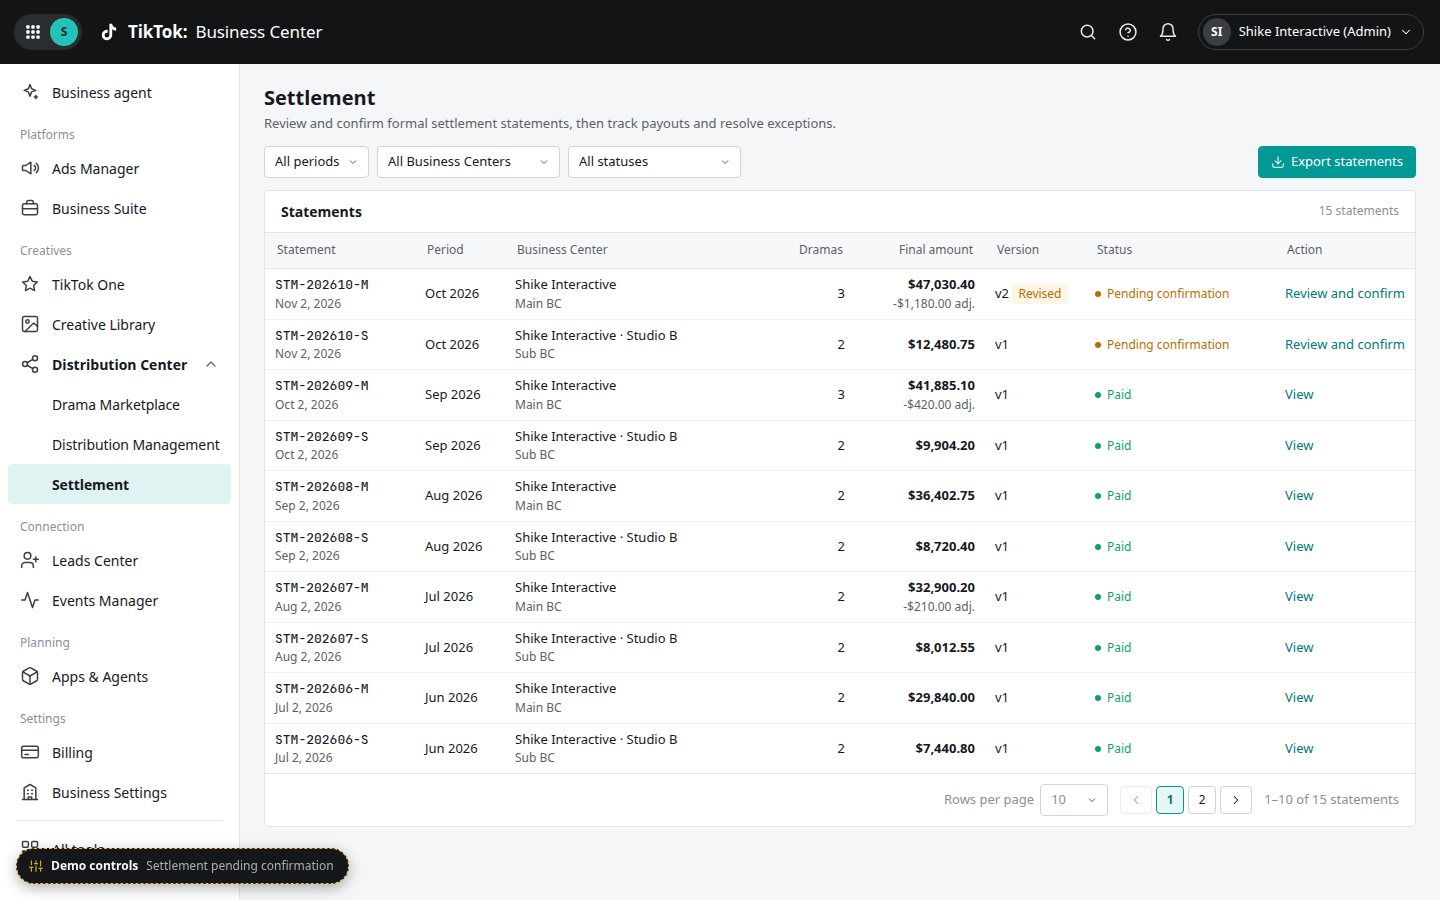
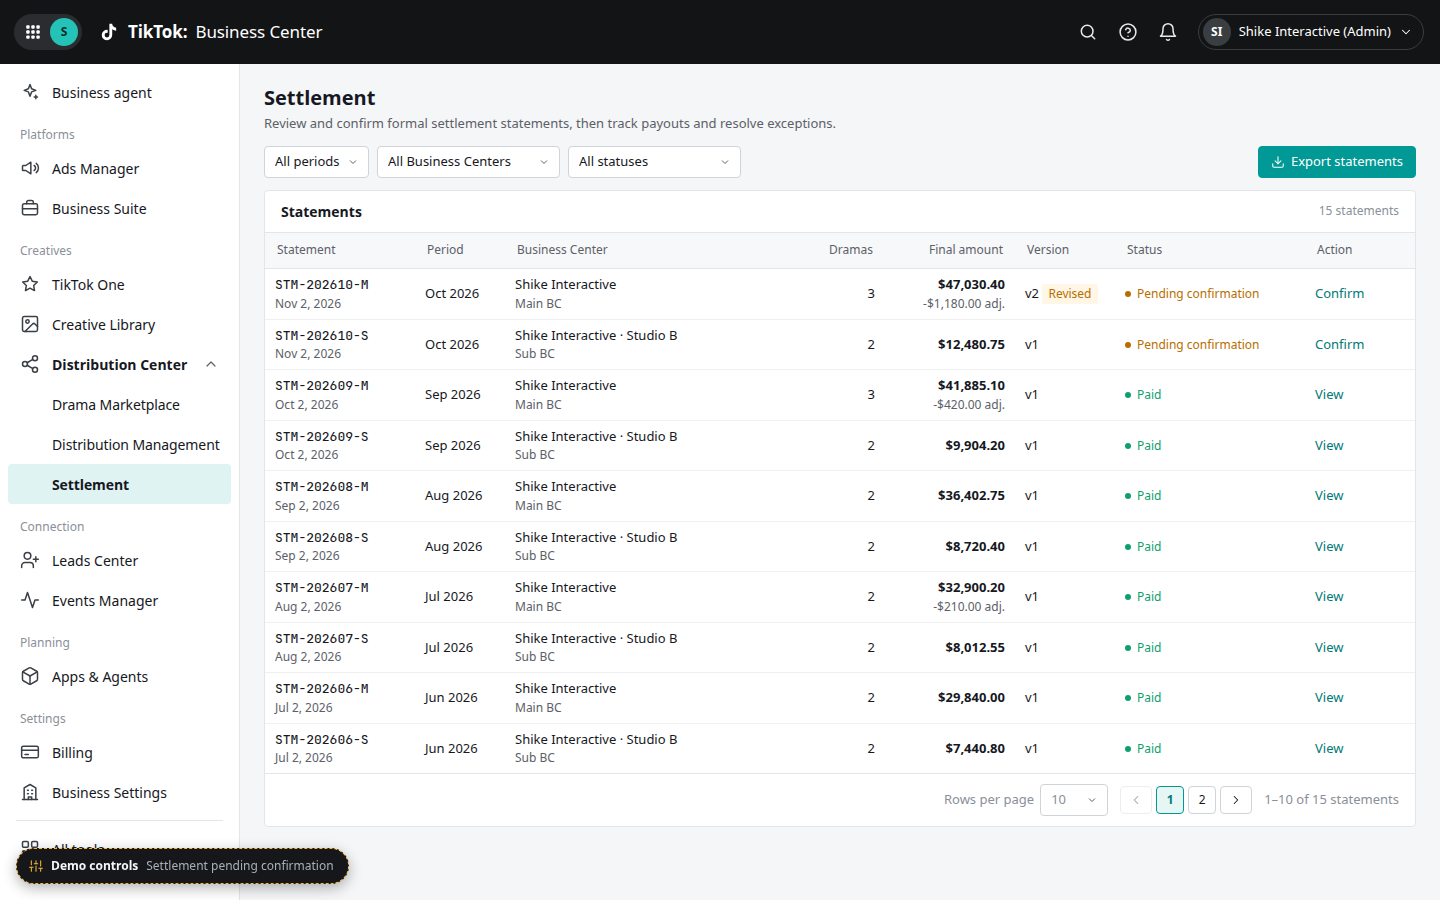
Sync prototype: Confirm action left-aligned
Rename the pending statement action to Confirm and left-align it with View in the Action column.

diff --git a/index.html b/index.html
@@ -108,7 +108,8 @@ button,input,select{font:inherit;color:inherit}
 .tbl tbody tr:hover td{background:#FAFBFC}
 .tbl tr:last-child td{border-bottom:0}
 .tbl .num{text-align:right;font-variant-numeric:tabular-nums}
-.tbl td.act{overflow:visible;white-space:nowrap}
+.tbl th.act,.tbl td.act{text-align:left;overflow:visible;white-space:nowrap}
+.tbl td.act .btn-link{display:inline-flex;justify-content:flex-start}
 .tbl tr:has(.menu){position:relative;z-index:5}
 .thumb{width:32px;height:42px;border-radius:4px;overflow:hidden;flex:none;background:#1d2329;position:relative}
 .thumb .poster,.thumb svg.poster{position:absolute;inset:0;width:100%;height:100%;display:block}
@@ -1987,9 +1988,9 @@ function pageSettlement(){
   if (f.page !== page) f.page = page;
   const list = all.slice((page - 1) * size, page * size);
   const rows = list.map(s => { const b = BCS[s.bc];
-    const act = s.status === 'pending' ? `<button type="button" class="btn-link" data-act="open-stm" data-id="${s.id}">Review and confirm</button>` : s.status === 'failed' ? `<button type="button" class="btn-link" data-act="open-stm" data-id="${s.id}">Fix payout</button>` : s.status === 'confirming' ? `<button type="button" class="btn-link" data-act="stm-check" data-id="${s.id}">Check status</button>` : `<button type="button" class="btn-link" data-act="open-stm" data-id="${s.id}">View</button>`;
-    return `<tr class="clickable" data-act="open-stm" data-id="${s.id}"><td><div class="cell-title mono" style="font-size:13px">${s.id}</div><div class="cell-sub">${s.generated}</div></td><td>${s.period}</td><td><div class="ell">${b.name}</div><div class="cell-sub">${b.role}</div></td><td class="num">${s.split.length}</td><td class="num"><b>${money(stmFinal(s))}</b>${s.adj ? '<div class="cell-sub">' + money(s.adj) + ' adj.</div>' : ''}</td><td>v${s.version}${s.revised ? ' <span class="tag warn">Revised</span>' : ''}</td><td>${stChip(STM_ST, s.status)}${s.failReason ? '<div class="st-reason">' + s.failReason + '</div>' : ''}</td><td>${act}</td></tr>`; }).join('');
-  out += `<div class="panel"><div class="panel-h"><h3>Statements</h3><span class="faint" style="font-size:12px">${plural(all.length, 'statement')}</span></div><div class="tbl-wrap"><table class="tbl"><thead><tr><th style="width:150px">Statement</th><th style="width:90px">Period</th><th>Business Center</th><th class="num" style="width:70px">Dramas</th><th class="num" style="width:130px">Final amount</th><th style="width:100px">Version</th><th style="width:190px">Status</th><th style="width:140px">Action</th></tr></thead><tbody>${rows || `<tr><td colspan="8">${emptyBlock('search', 'No statements match your filters', '', '<button class="btn" data-act="st-clear">Clear filters</button>')}</td></tr>`}</tbody></table></div>${stPagerHtml(all.length)}</div>`;
+    const act = s.status === 'pending' ? `<button type="button" class="btn-link" data-act="open-stm" data-id="${s.id}">Confirm</button>` : s.status === 'failed' ? `<button type="button" class="btn-link" data-act="open-stm" data-id="${s.id}">Fix payout</button>` : s.status === 'confirming' ? `<button type="button" class="btn-link" data-act="stm-check" data-id="${s.id}">Check status</button>` : `<button type="button" class="btn-link" data-act="open-stm" data-id="${s.id}">View</button>`;
+    return `<tr class="clickable" data-act="open-stm" data-id="${s.id}"><td><div class="cell-title mono" style="font-size:13px">${s.id}</div><div class="cell-sub">${s.generated}</div></td><td>${s.period}</td><td><div class="ell">${b.name}</div><div class="cell-sub">${b.role}</div></td><td class="num">${s.split.length}</td><td class="num"><b>${money(stmFinal(s))}</b>${s.adj ? '<div class="cell-sub">' + money(s.adj) + ' adj.</div>' : ''}</td><td>v${s.version}${s.revised ? ' <span class="tag warn">Revised</span>' : ''}</td><td>${stChip(STM_ST, s.status)}${s.failReason ? '<div class="st-reason">' + s.failReason + '</div>' : ''}</td><td class="act">${act}</td></tr>`; }).join('');
+  out += `<div class="panel"><div class="panel-h"><h3>Statements</h3><span class="faint" style="font-size:12px">${plural(all.length, 'statement')}</span></div><div class="tbl-wrap"><table class="tbl"><thead><tr><th style="width:150px">Statement</th><th style="width:90px">Period</th><th>Business Center</th><th class="num" style="width:70px">Dramas</th><th class="num" style="width:130px">Final amount</th><th style="width:100px">Version</th><th style="width:190px">Status</th><th class="act" style="width:110px">Action</th></tr></thead><tbody>${rows || `<tr><td colspan="8">${emptyBlock('search', 'No statements match your filters', '', '<button class="btn" data-act="st-clear">Clear filters</button>')}</td></tr>`}</tbody></table></div>${stPagerHtml(all.length)}</div>`;
   return out + '</div>';
 }
 function stmDrawer(id){
